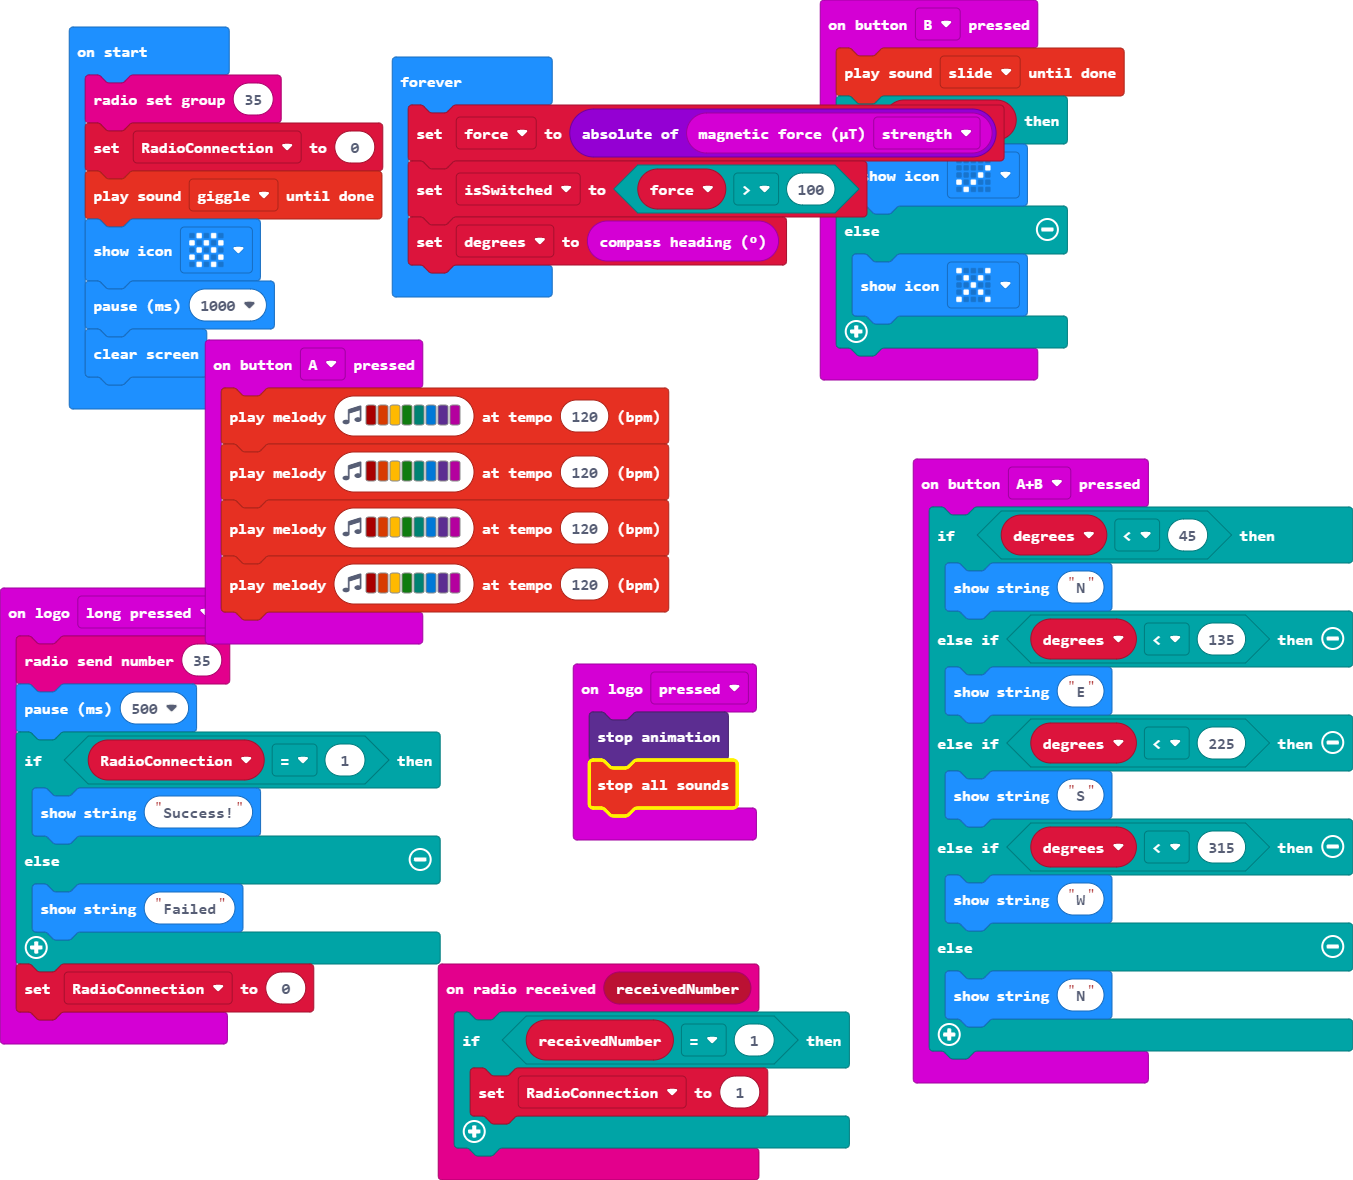
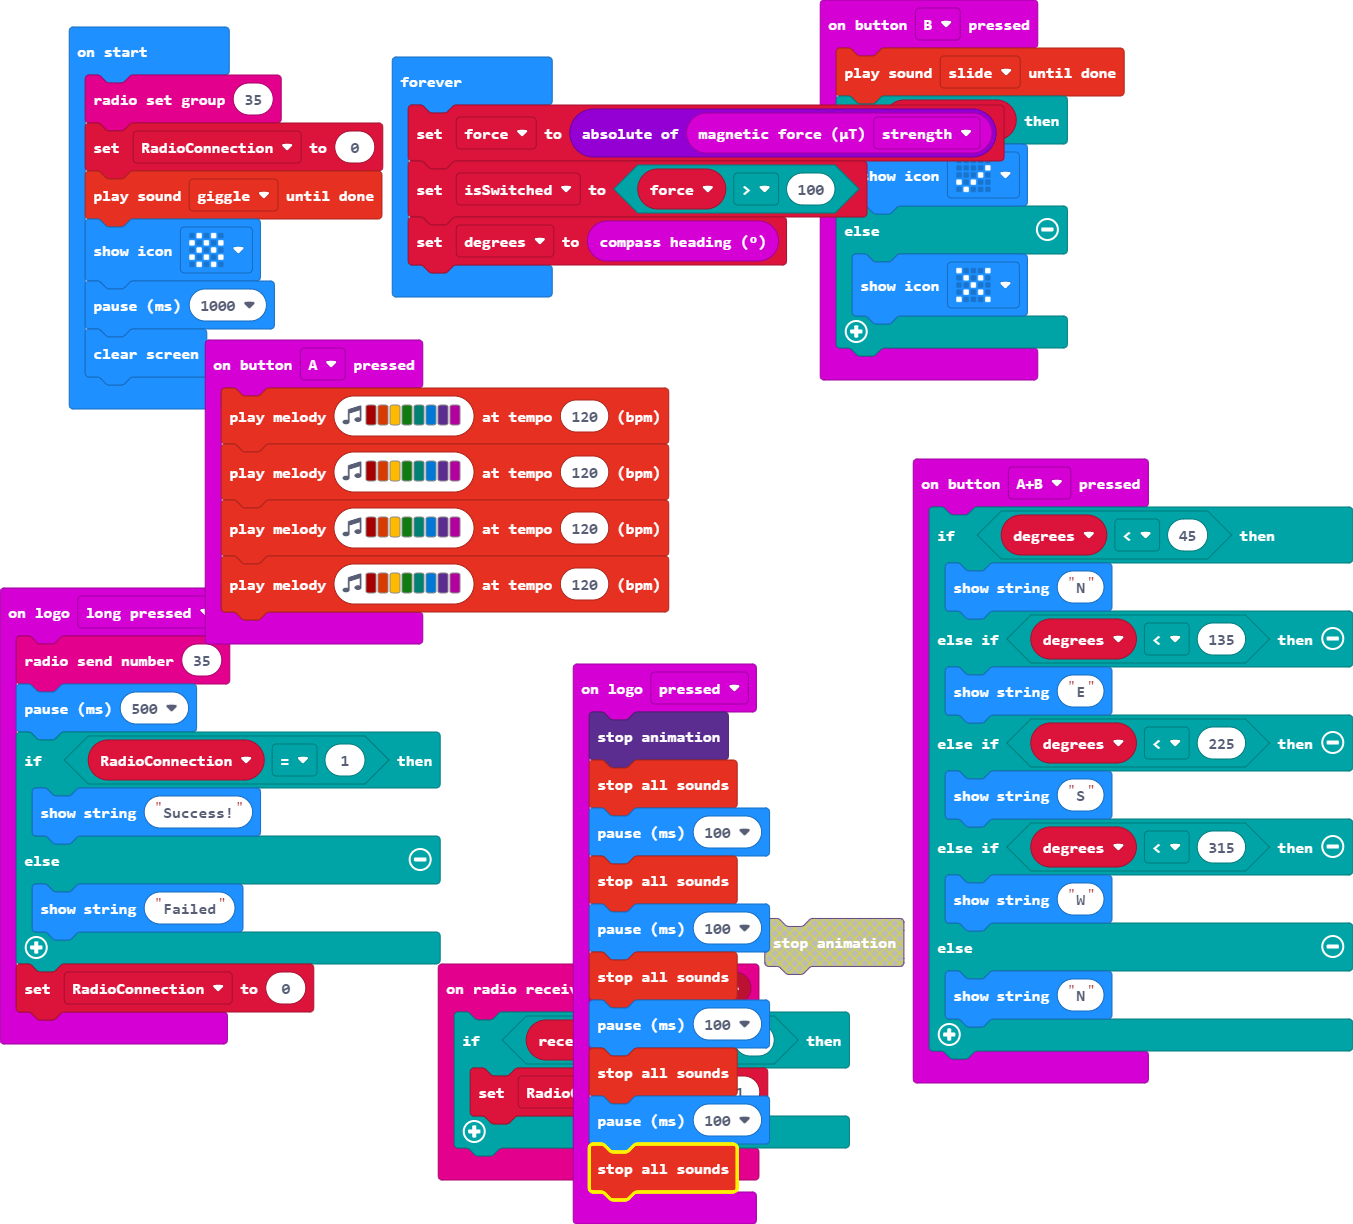
Update main.blocks, main.ts

diff --git a/main.ts b/main.ts
@@ -46,6 +46,14 @@ input.onButtonPressed(Button.B, function () {
 input.onLogoEvent(TouchButtonEvent.Pressed, function () {
     led.stopAnimation()
     music.stopAllSounds()
+    basic.pause(100)
+    music.stopAllSounds()
+    basic.pause(100)
+    music.stopAllSounds()
+    basic.pause(100)
+    music.stopAllSounds()
+    basic.pause(100)
+    music.stopAllSounds()
 })
 let force = 0
 let isSwitched = false
